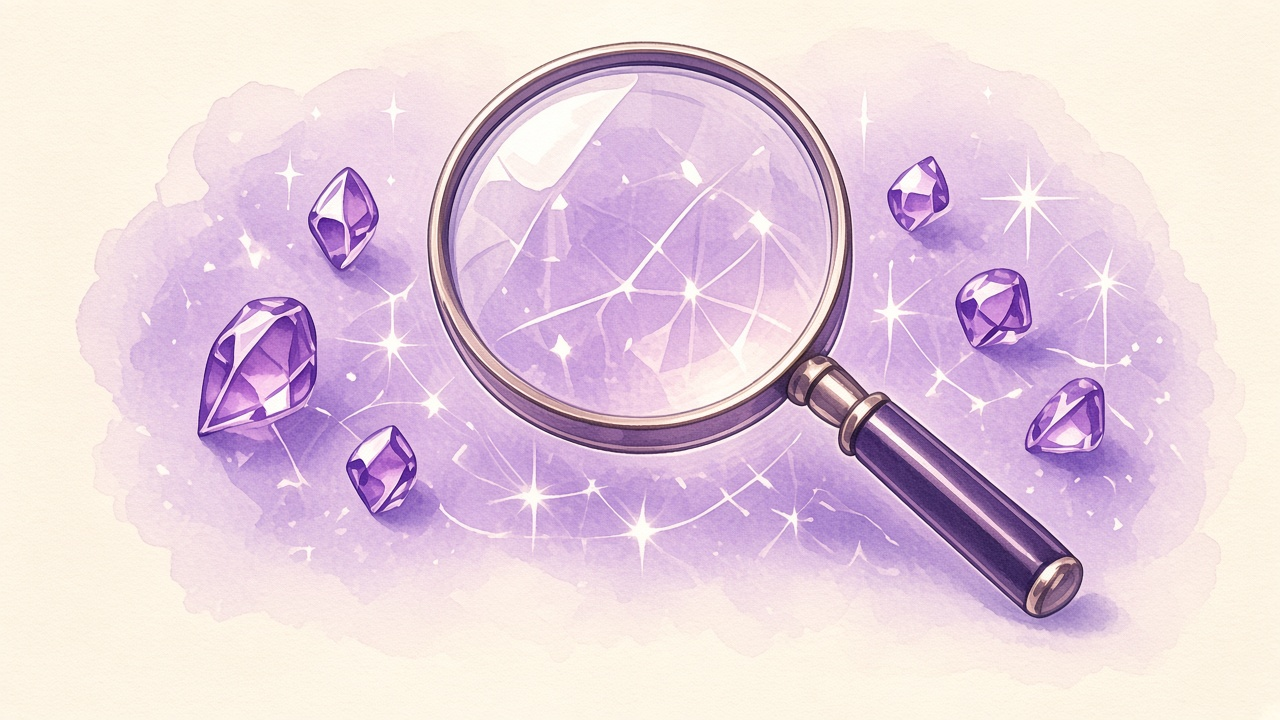
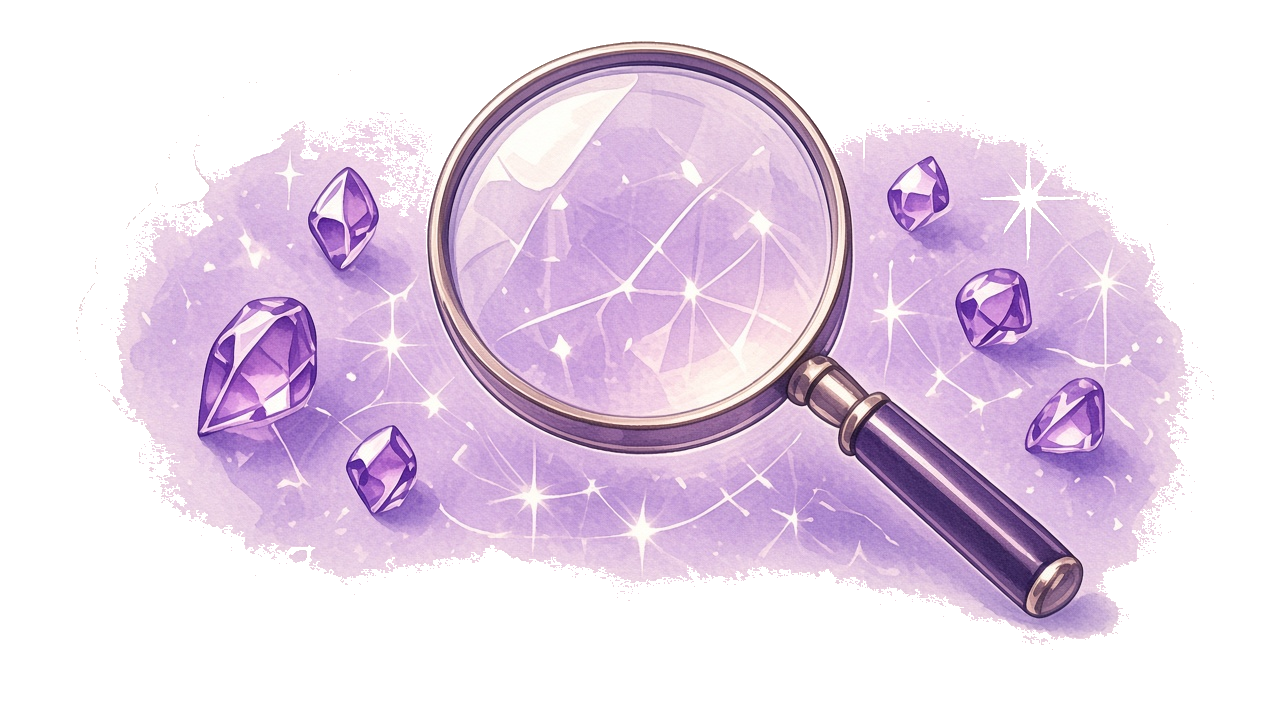
feat(finder): set How it works cards on white art and amethyst panels
Titles and bullets sit on the amethyst panel in white. Illustration fields are white.

diff --git a/apps/finder/components/learn/finder-learn.module.css b/apps/finder/components/learn/finder-learn.module.css
@@ -300,42 +300,47 @@
   flex-direction: column;
   min-width: 0;
   overflow: hidden;
-  border: 1px solid rgba(91, 42, 143, 0.14);
+  border: 1px solid rgba(91, 42, 143, 0.22);
   border-radius: 1.5rem;
   background: #fff;
   box-shadow: 0 16px 40px rgba(61, 24, 112, 0.08);
-  padding-bottom: 1.35rem;
 }
 
 .pillarArt {
   display: block;
   width: 100%;
   height: auto;
-  background: #fff6ee;
+  background: #fff;
+}
+
+.pillarCopy {
+  background: var(--finder-amethyst);
+  color: #fff;
+  padding: 1.15rem 1.35rem 1.45rem;
 }
 
 .pillar h2 {
-  margin: 0.85rem 1.25rem 0.2rem;
-  color: var(--finder-deep);
+  margin: 0 0 0.35rem;
+  color: #fff;
   font-size: clamp(1.85rem, 2.6vw, 2.3rem);
   line-height: 1.08;
   text-align: center;
 }
 
 .pillar ul {
-  margin: 0.35rem 1.4rem 0;
+  margin: 0.15rem 0 0;
   padding-left: 1.15rem;
-  color: var(--finder-muted);
+  color: #fff;
 }
 
 .pillar li {
-  margin-top: 0.35rem;
+  margin-top: 0.4rem;
   font-size: 1.02rem;
   line-height: 1.45;
 }
 
 .pillar li::marker {
-  color: var(--finder-amethyst);
+  color: #fff;
 }
 
 .silver {

diff --git a/apps/finder/components/learn/FinderLearnPage.tsx b/apps/finder/components/learn/FinderLearnPage.tsx
@@ -45,12 +45,14 @@ export function FinderLearnPage({ variant = "preview" }: { variant?: "preview" |
             {content.pillars.items.map((pillar) => (
               <article className={styles.pillar} key={pillar.title}>
                 <img className={styles.pillarArt} src={pillar.image} alt="" />
-                <h2>{pillar.title}</h2>
-                <ul>
-                  {pillar.bullets.map((bullet) => (
-                    <li key={bullet}>{bullet}</li>
-                  ))}
-                </ul>
+                <div className={styles.pillarCopy}>
+                  <h2>{pillar.title}</h2>
+                  <ul>
+                    {pillar.bullets.map((bullet) => (
+                      <li key={bullet}>{bullet}</li>
+                    ))}
+                  </ul>
+                </div>
               </article>
             ))}
           </div>

diff --git a/apps/finder/tests/sparkle-finder/learn-page.test.tsx b/apps/finder/tests/sparkle-finder/learn-page.test.tsx
@@ -191,6 +191,8 @@ describe("Sparkle Finder /learn", () => {
     expect(`${learnSource}\n${contentSource}`).not.toMatch(/next\/image|webp|\/learn\/peeks|background-image|url\(/i);
     expect(styles).not.toMatch(/next\/image|webp|\/learn\/peeks|background-image|pillarPanel/i);
     expect(styles).toContain(".pillarArt {");
+    expect(styles).toContain(".pillarArt {\n  display: block;\n  width: 100%;\n  height: auto;\n  background: #fff;");
+    expect(styles).toContain(".pillarCopy {\n  background: var(--finder-amethyst);\n  color: #fff;");
     expect(styles).toContain("grid-template-columns: repeat(2, minmax(0, 1fr));");
     expect(contentSource).toContain('image: "/learn/pillars/search.png"');
     expect(contentSource).toContain('image: "/learn/pillars/save.png"');

diff --git a/apps/finder/vault/2026-10-05-learn-violet-panels-closeout.md b/apps/finder/vault/2026-10-05-learn-violet-panels-closeout.md
@@ -1,0 +1,3 @@
+# 2026-10-05 /learn violet pillar panels
+
+How it works cards now have a white art field and an amethyst panel (`#5b2a8f`) with white titles and bullets. Pillar paintings stay the fresh set: no baked titles, Save says Own and Wish List, Go to the show is the Next Live phone. Locked bullets are unchanged. Not deployed.
